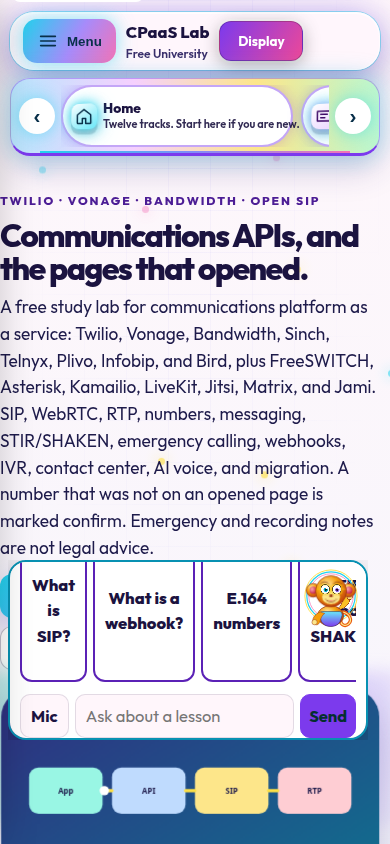
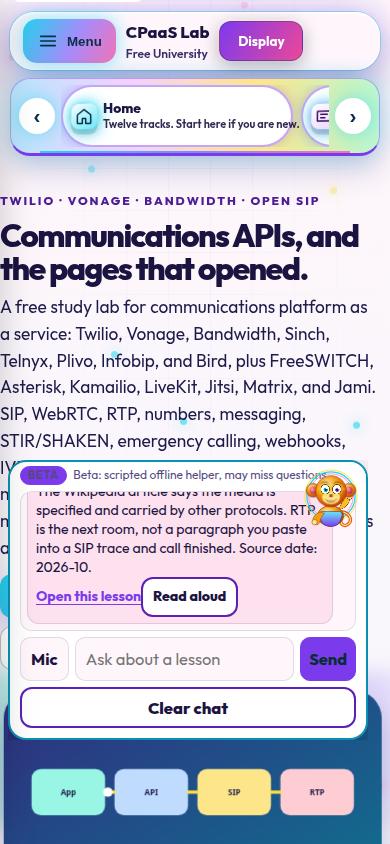
Give the phone answer log room after a reply.
Drop the 88px log cap, keep the log at least 140px on a phone, and hide the suggestion chips once an answer is showing. Playwright checks the log is at least 120px tall at 390x844 and 390x430.

diff --git a/tests/lab.spec.js b/tests/lab.spec.js
@@ -15,6 +15,14 @@ async function shot(page, name) {
   await page.screenshot({ path: path.join(shotDir, name), fullPage: false });
 }
 
+async function expectAnswerLog(page) {
+  const log = page.locator(".py-chat-log");
+  await expect(log).toBeVisible();
+  expect((await log.boundingBox()).height).toBeGreaterThanOrEqual(120);
+  await expect(page.locator(".py-chat-chips")).toBeHidden();
+  await expect(page.locator(".py-chat-examples")).toBeHidden();
+}
+
 test.describe("desktop", () => {
   test.use({ viewport: { width: 1440, height: 900 } });
   test("home, bot, lesson", async ({ page }) => {
@@ -47,6 +55,12 @@ test.describe("phone", () => {
     await expect(input).toBeVisible();
     await expect(send).toBeVisible();
     expect((await input.boundingBox()).width).toBeGreaterThanOrEqual(180);
+    await input.fill("what is SIP");
+    await send.click();
+    await expect(page.locator(".py-msg-bot").last()).toContainText(/SIP/);
+    await expectAnswerLog(page);
+    await expect(input).toBeVisible();
+    await expect(send).toBeVisible();
     await shot(page, "bot-390.png");
     await page.goto("/rooms/sip-jobs.html");
     await expect(page.locator("main h1")).toContainText(/SIP/);
@@ -103,6 +117,7 @@ test.describe("short phone", () => {
     await input.fill("what is SIP");
     await send.click();
     await expect(page.locator(".py-msg-bot").last()).toContainText(/SIP/);
+    await expectAnswerLog(page);
     await expect(input).toBeVisible();
     await shot(page, "bot-390x430.png");
   });

diff --git a/shared/pybot-chat/chat.css b/shared/pybot-chat/chat.css
@@ -25,9 +25,9 @@
 .py-chat > .bp-link { flex: 0 0 auto; }
 .bp-scroll { overflow: auto; min-height: 0; flex: 1 1 auto; }
 .py-chat-log {
-  max-height: 112px;
+  max-height: 220px;
   min-height: 0;
-  flex: 0 1 auto;
+  flex: 1 1 auto;
   overflow: auto;
   display: flex;
   flex-direction: column;
@@ -92,8 +92,17 @@
 @media (min-width: 900px) {
   .py-chat-log { max-height: 168px; }
 }
+@media (max-width: 800px) {
+  .py-chat-log {
+    min-height: 140px;
+    max-height: none;
+    flex: 1 1 140px;
+  }
+}
+.py-chat.py-chat-answered .py-chat-try,
+.py-chat.py-chat-answered .py-chat-examples,
+.py-chat.py-chat-answered .py-chat-chips { display: none; }
 @media (max-width: 420px) {
-  .py-chat-log { max-height: 88px; }
   .py-chat-form button[type="submit"] { padding-inline: 8px; }
 }
 @media (max-height: 560px) {
@@ -120,8 +129,8 @@
     line-height: 1.2;
   }
   .py-chat-log {
-    flex: 1 1 auto;
-    min-height: 48px;
+    flex: 1 1 140px;
+    min-height: 140px;
     max-height: none;
     overflow: auto;
     padding: 4px 6px;

diff --git a/guide/guide.js b/guide/guide.js
@@ -120,9 +120,10 @@
         dock.style.bottom = "8px";
       } else {
         var phone = document.querySelector(".phone-bar");
-        var phoneTop = phone ? phone.getBoundingClientRect().top : window.innerHeight;
+        var barBox = phone ? phone.getBoundingClientRect() : null;
+        var phoneTop = barBox && barBox.height > 0 ? barBox.top : window.innerHeight;
         var topLimit = Math.round(guardBottom() + 12);
-        var maxH = Math.max(180, phoneTop - 12 - topLimit);
+        var maxH = Math.max(280, phoneTop - 12 - topLimit);
         panel.style.maxHeight = maxH + "px";
         dock.style.maxHeight = maxH + "px";
         dock.style.top = topLimit + "px";

diff --git a/shared/pybot-chat/ui.js b/shared/pybot-chat/ui.js
@@ -76,6 +76,7 @@ export function paintChat(root, messages, busy) {
   });
   if (busy) log.appendChild(el("p", "py-msg py-msg-bot py-msg-wait", "Looking through the lab…"));
   log.scrollTop = log.scrollHeight;
+  root.classList.toggle("py-chat-answered", messages.length > 0);
   const last = [...messages].reverse().find((msg) => msg.role === "bot" && msg.follow);
   chips.replaceChildren();
   if (last && last.follow) {

diff --git a/assets/css/uc.css b/assets/css/uc.css
@@ -774,8 +774,8 @@ main, .wrap, .go-deeper, .lede, .go-deeper a, .go-deeper li {
     overflow: hidden;
   }
   body.guide-open .bot-dock.is-open .py-chat-log {
-    flex: 1 1 auto;
-    min-height: 48px;
+    flex: 1 1 140px;
+    min-height: 140px;
     max-height: none;
   }
   body.guide-open .bot-dock.is-open .py-chat-form {
